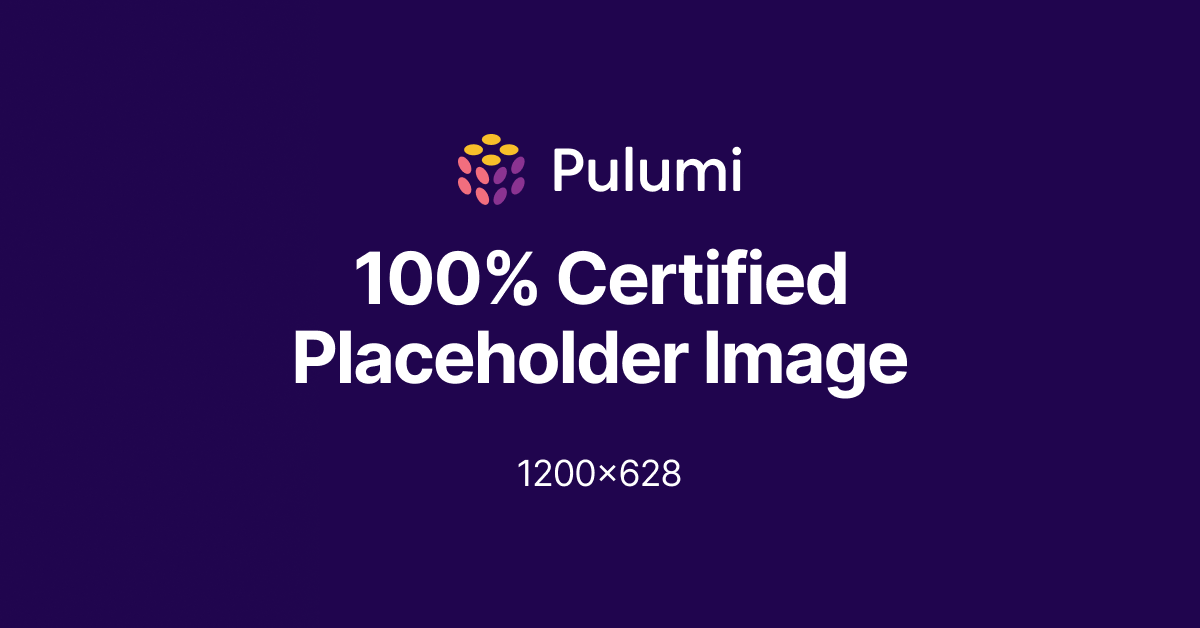
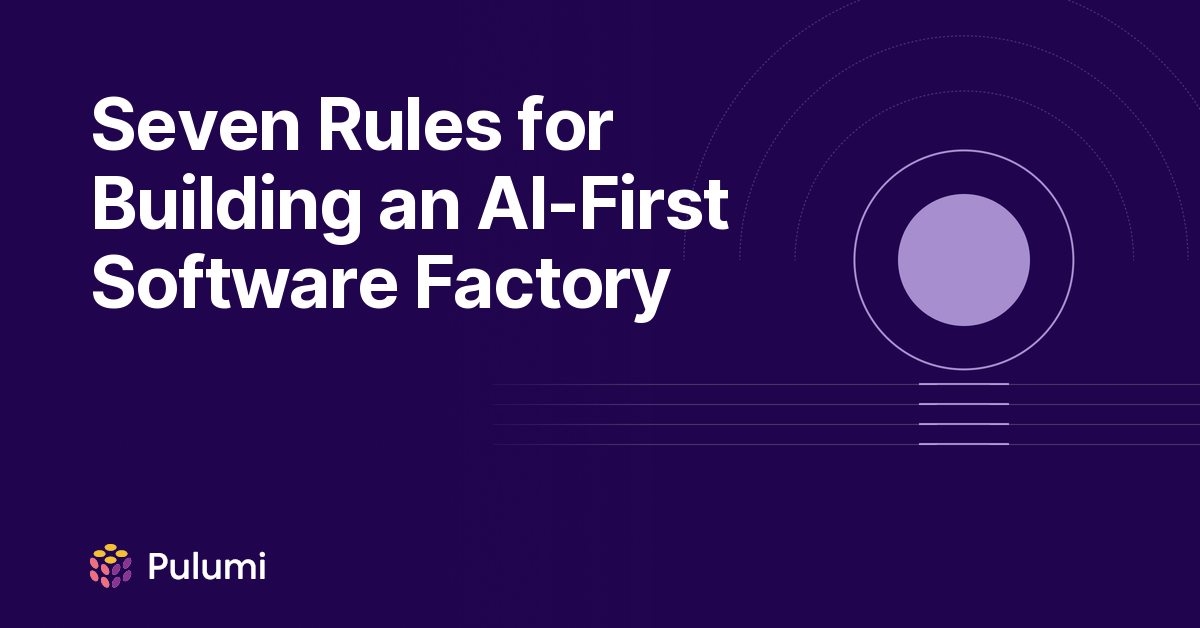
blog: meta images, headshot, docs-review fixes

diff --git a/content/blog/seven-rules-ai-first-software-factory/index.md b/content/blog/seven-rules-ai-first-software-factory/index.md
@@ -12,19 +12,23 @@ tags:
     - ai
     - ai-agents
     - infrastructure-as-code
+    - pulumi-neo
+    - pulumi-esc
 social:
     twitter: |
         Five engineers. Nineteen clients. Custom code shipped within a day of signing.
 
         Ewan Dawson, CTO of Compostable AI, on the seven rules he built around the agents that write almost all of his company's code.
     linkedin: |
-        "I used to think of writing code as a craft. Now I run a factory, and the people on the floor are AI agents."
+        Ewan Dawson used to think of writing code as a craft. Now he runs a factory — and the people on the floor are AI agents.
 
-        Ewan Dawson is CTO of Compostable AI, where five engineers run an AI-first software factory: nineteen clients, custom AWS deployments, most of them shipped within a day of contract signing. Most of the code his company ships, he hasn't personally read.
+        Ewan is CTO of Compostable AI, where five engineers run an AI-first software factory: nineteen clients, custom AWS deployments, most of them shipped within a day of contract signing. Most of the code his company ships, he hasn't personally read.
 
         Adapted from his recent Pulumi webinar — and expanded with the rules they didn't have time to land on stage.
     bluesky: |
-        Five engineers. Nineteen clients. Custom code shipped within a day of signing. Ewan Dawson's seven rules for an AI-first software factory — where agents write nearly all the code.
+        Five engineers. Nineteen clients. Custom code shipped within a day of signing.
+
+        Ewan Dawson's seven rules for an AI-first software factory — where agents write nearly all the code.
 ---
 
 *Ewan Dawson is CTO of [Compostable AI](https://compostable.ai/), where five engineers run an AI-first software factory: nineteen clients, custom AWS deployments, most of them shipped within a day of contract signing. This article is adapted from his recent Pulumi webinar (TBD: link to webinar recording), expanded to cover the rules they didn't have time to land on stage.*
@@ -37,17 +41,17 @@ Most of the code Compostable ships now, I haven't personally read. The agents ar
 
 ## 1. Transform, don't enhance
 
-A few years ago, before I started Compostable, I was working at a large multinational when GitHub Copilot first came out. Everyone got excited about it — that was the first ChatGPT moment in software development, and I remember being blown away the first time I used it. I thought: this changes software development. Everything changes now.
+A few years ago, before I started Compostable, I was working at a large multinational when [GitHub Copilot](https://github.com/features/copilot) first came out. Everyone got excited about it — that was the first ChatGPT moment in software development, and I remember being blown away the first time I used it. I thought: this changes software development. Everything changes now.
 
 But getting it into the hands of engineers at that company turned into an uphill fight with GRC. Copyright, security, compliance. Each concern was reasonable. Each one slowed us down. We were trying to drop a future-of-software-development tool into a process designed for none of that. By the time we'd negotiated a limited trial, I'd already worked out that whatever this technology was going to become, it wasn't going to become it inside a big enterprise first. Startups would. So I left and started one.
 
 When we built Compostable, we were deliberate about it. I wasn't bolting agents onto a process I already knew. I was trying to figure out what the process should look like if AI did most of the writing from day one.
 
-**Don't bolt AI onto your existing workflow. Redesign the workflow around what agents can do.** Most of the leverage in this technology comes from rebuilding around it. The tool change is the easy part.
+**Don't bolt AI onto your existing workflow. Redesign the workflow around what agents can do.** Most of the leverage in this technology comes from rebuilding around it. The tool change is the small part.
 
 ## 2. Remove the problem, don't solve it
 
-If the agents were going to write code that touched production, blast radius wasn't a hypothetical — one bad agent run could trash a customer's database. The obvious move was to build a multi-tenant sandbox: guardrails, approvals, rollback. Every version we tried still had agents loose in a shared environment — one bug away from making one customer's data visible to another.
+If the agents were going to write code that touched production, blast radius wasn't a hypothetical: one bad agent run could trash a customer's database. The obvious move was to build a multi-tenant sandbox: guardrails, approvals, rollback. Every version we tried still had agents loose in a shared environment, one bug away from making one customer's data visible to another.
 
 So we didn't build the sandbox. We gave every client their own AWS account instead — nineteen accounts now, one per client. Single tenant, all the way down. Agents only ever touch staging. The AWS account itself is the security boundary, and Amazon has spent twenty years getting that boundary right. We got ISO 27001 certified in six weeks because most of the work was already done.
 
@@ -57,11 +61,11 @@ The trade-off is real — running a fleet that size is its own kind of work, and
 
 ## 3. Pick tools your agents can drive
 
-Managing nineteen accounts meant picking tools that didn't need a human in every loop. Our first attempt was CDK — TypeScript-native, same language as our application code. My initial thinking was that infrastructure is code, it's just code, that'll be easy. It's not really that easy. As we added clients, the accounts started to drift out of sync. Deployments took forever. Retries got complicated when one account update succeeded and another failed. The tooling we were using just wasn't really up to the job.
+Managing nineteen accounts meant picking tools that didn't need a human in every loop. Our first attempt was [CDK](https://aws.amazon.com/cdk/) — TypeScript-native, same language as our application code. My initial thinking was that infrastructure is code, it's just code, that'd be straightforward. It wasn't. As we added clients, the accounts started to drift out of sync. Deployments took forever. Retries got complicated when one account update succeeded and another failed. The tooling we were using wasn't up to the job.
 
-So I started looking around. Pulumi solved the parts that were burning us — reliable deployment from code, configuration that varied per-client without forking the codebase. Pulumi had already shipped Neo and an MCP server when most vendors were still figuring out their AI story; they were clearly betting on agents. That's the kind of partner I was looking for. Neo picked up our infrastructure on day one. One of my colleagues put it: "The scary thing about Neo is it just seems to know everything about what we do."
+I went looking for something better. Pulumi solved the parts that were burning us: reliable deployment from code, configuration that varied per-client without forking the codebase. Pulumi had already shipped [Neo](/product/neo/) and an MCP server when most vendors were still figuring out their AI story; they were clearly betting on agents. That's the kind of partner I was looking for. Neo picked up our infrastructure on day one. One of my colleagues put it: "The scary thing about Neo is it just seems to know everything about what we do."
 
-What kept us going wasn't any one feature. It was that the pieces composed — IaC, ESC, Neo, Pulumi Cloud all built on top of each other as primitives, and the benefits compounded across the stack. We picked one piece for the agentic mindset, and the next piece was already in the box.
+What kept us going wasn't any one feature. It was that the pieces composed — Pulumi IaC, [Pulumi ESC](/docs/pulumi-cloud/esc/) (Environments, Secrets, and Configuration), Neo, and [Pulumi Cloud](/docs/pulumi-cloud/) all built on top of each other as primitives, and the benefits compounded across the stack. We picked one piece for the agentic mindset, and the next piece was already in the box.
 
 **Tools have to share your AI-first mindset. If they don't integrate deeply, the human becomes the glue.** If part of your stack still requires a human to click through a web UI to provision an account, your agents stop there.
 
@@ -69,15 +73,15 @@ What kept us going wasn't any one feature. It was that the pieces composed — I
 
 The first thing you reach for when you start automating with agents is a god prompt — one big prompt that defines your whole software factory, with one agent turned loose on the work. It doesn't work. The agents that write the code aren't the best at checking their own homework. They're lenient on themselves.
 
-So we don't run one agent. We run a constellation of them, each with a narrow job. One agent reviews the backlog and flags under-specified tickets. Another writes the application code. Neo writes the infrastructure — when an agent hits an infra task, AGENTS.md tells it to delegate to Neo via Pulumi's MCP server. Then four or five checker agents go over the PR from different angles — performance, correctness, security. They're running on smaller models than the writers, and you know what? They always find something.
+So we don't run one agent. We run a constellation of them, each with a narrow job. One agent reviews the backlog and flags under-specified tickets. Another writes the application code. Neo writes the infrastructure. When an agent hits an infra task, [AGENTS.md](https://agents.md/) tells it to delegate to Neo via Pulumi's MCP server. Then four or five checker agents go over the PR from different angles — performance, correctness, security. They're running on smaller models than the writers, and you know what? They always find something.
 
-**Don't let any agent mark its own homework.** Specialization compounds. The checkers are cheap, they each look for one thing, and a narrow job means a narrow context window. Infrastructure alone can fill an agent's context — give it the whole job and there's no room left to think.
+**Don't let any agent mark its own homework.** Specialization compounds. The checkers are cheap, they each look for one thing, and a narrow job means a narrow context window. Infrastructure alone can fill an agent's context. Give it the whole job and there's no room left to think.
 
 ## 5. Measure human hours per unit of value
 
 Once the agents are producing code, the bottleneck moves to the humans around them — PR review, per-client rollouts, anyone who has to approve the work before it ships. The metric I use now is human hours per unit of value produced. Look at every step and ask what you can automate; if you can't, ask why not. The pattern we've ended up with is humans at the start, writing the specs and choosing the work that matters; humans at the end, doing the final pre-production check; agents in between.
 
-The mechanism that keeps the humans out of the middle is configuration. We hold all of it in ESC (Pulumi's config and secrets layer), and ESC environments inherit from each other — a base layer for the platform, a layer for staging vs. production, per-client overrides as small diffs on top. When something needs to change across all nineteen clients, we update one base environment and run `pulumi up`, or hand it off to Neo to redeploy every stack. One change, nineteen clients updated — not nineteen tickets and three meetings. If you're managing config sprawl across environments, ESC is where I'd start.
+The mechanism that keeps the humans out of the middle is configuration. We hold all of it in ESC, and ESC environments inherit from each other: a base layer for the platform, a layer for staging vs. production, per-client overrides as small diffs on top. When something needs to change across all nineteen clients, we update one base environment and run `pulumi up`, or hand it off to Neo to redeploy every stack. One change, nineteen clients updated — not nineteen tickets and three meetings. If you're managing config sprawl across environments, ESC is where I'd start.
 
 **Measure human hours per unit of value. Treat every one as a bottleneck to remove.** Engineers writing or reviewing routine code is an unacceptable bottleneck. Each one you remove gives the agents another order of magnitude.
 
@@ -87,7 +91,7 @@ Agents don't get the answer right the first time. They drift. They go off-topic,
 
 The trick is that it doesn't matter how many tries it takes, as long as no human is in the loop. We run our pipeline as a convergence machine: each iteration goes back through the checker agents from the last rule, the issues they find feed into the next pass, and eventually all the agents pass, all the tests pass. Total time: an overnight run.
 
-Two things have to be true for that loop to work. You need a way to evaluate whether the output is good enough — without that, you don't know when to stop. And the loop has to actually converge: each pass has to get closer, or you'll churn forever on the same issue under different framings.
+Two things have to be true for that loop to work. You need a way to evaluate whether the output is good enough. Without that, you don't know when to stop. And the loop has to actually converge: each pass has to get closer, or you'll churn forever on the same issue under different framings.
 
 I've shipped more code in the last two years — after a stretch in leadership where I wrote almost none — than I did in the previous fifteen, all of it in languages I couldn't write by hand.
 
@@ -95,9 +99,9 @@ I've shipped more code in the last two years — after a stretch in leadership w
 
 ## 7. Run the factory in the cloud, not on a laptop
 
-That machine has to live somewhere. The default mental picture of AI coding is one developer in their IDE, watching Copilot autocomplete. That's not what we do. Our agents run in the cloud — the factory keeps producing while engineers are in meetings, talking to clients, or asleep. We don't sit there watching progress bars; we spend the time with clients.
+That machine has to live somewhere. The default mental picture of AI coding is one developer in their IDE, watching Copilot autocomplete. That's not what we do. Our agents run in the cloud. The factory keeps producing while engineers are in meetings, talking to clients, or asleep. We don't sit there watching progress bars; we spend the time with clients.
 
-Running it in the cloud isn't just about keeping it on at night. Once you've built it, the next job is to tweak it — improve quality, reduce costs, improve throughput. That's hard if it's scattered across developers' laptops. Configuration and credentials drift. The thing you're trying to optimize is in different states on different machines. It doesn't really work on-prem, on laptops, or on a Mac Mini in the corner. That's why we run on Pulumi Cloud rather than GitHub Actions — Pulumi Cloud is somewhere you can iterate on the factory itself, not just trigger it.
+Running it in the cloud isn't just about keeping it on at night. Once you've built it, the next job is to tweak it: improve quality, reduce costs, improve throughput. That's hard if it's scattered across developers' laptops. Configuration and credentials drift. The thing you're trying to optimize is in different states on different machines. It doesn't really work on-prem, on laptops, or on a Mac Mini in the corner. That's why we run on Pulumi Cloud rather than [GitHub Actions](https://github.com/features/actions) — Pulumi Cloud is somewhere you can iterate on the factory itself, not just trigger it.
 
 **Build the factory somewhere you can work on it — not just somewhere it can run.**
 